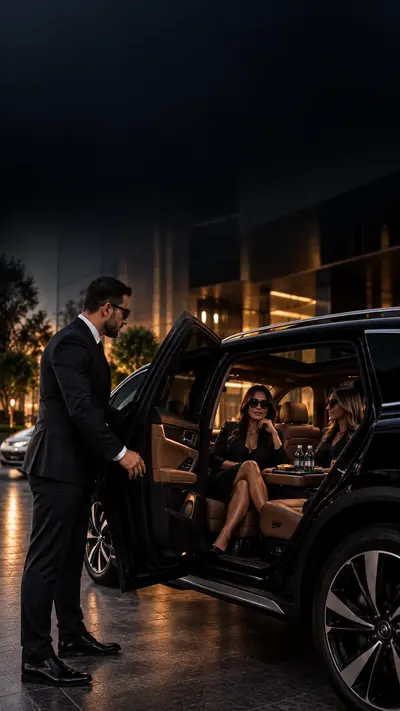
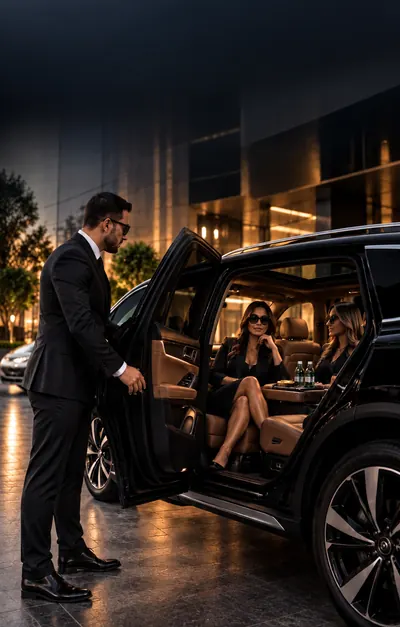
feat: CTA "Reserve Agora!" nos cards de serviço e fotos novas
Cards passam a 4:5 e cada foto ganha foco próprio para o botão não
cobrir pessoas; o topo da foto esmaece sob o véu para esconder a
emenda do deslocamento. Troca das fotos de Receptivo, City Tour,
Segurança Armada e Experiência Personalizada.

diff --git a/src/app/components/services.ts b/src/app/components/services.ts
@@ -1,5 +1,11 @@
 import { ChangeDetectionStrategy, Component } from '@angular/core';
-import { SERVICOS, SERVICOS_INTRO, SIZES_CARD, srcsetCard } from '../content/site-content';
+import {
+  RESERVA,
+  SERVICOS,
+  SERVICOS_INTRO,
+  SIZES_CARD,
+  srcsetCard,
+} from '../content/site-content';
 import { RevealOnScroll } from '../directives/reveal-on-scroll';
 import { Icon, IconName } from './icon';
 
@@ -37,6 +43,16 @@ import { Icon, IconName } from './icon';
                 <app-icon class="card__icone" [name]="icone(servico.icone)" [size]="32" />
                 <h3 class="card__titulo">{{ servico.titulo }}</h3>
                 <p class="card__descricao">{{ servico.descricao }}</p>
+                <a
+                  class="btn btn--primary card__cta"
+                  [href]="reservaUrl"
+                  target="_blank"
+                  rel="noopener"
+                  [attr.aria-label]="reservaRotulo + ' — ' + servico.titulo"
+                >
+                  {{ reservaRotulo }}
+                  <app-icon class="card__cta-seta" name="chevron-right" [size]="18" />
+                </a>
               </div>
             </article>
           }
@@ -67,7 +83,7 @@ import { Icon, IconName } from './icon';
       display: flex;
       flex-direction: column;
       justify-content: flex-start;
-      min-block-size: 24rem;
+      aspect-ratio: 4 / 5;
       overflow: hidden;
       border: 1px solid var(--color-border);
       border-radius: var(--radius-md);
@@ -82,6 +98,8 @@ import { Icon, IconName } from './icon';
       object-fit: cover;
       z-index: 0;
       filter: brightness(0.92);
+      /* Foto deslocada para baixo via foco não deixa emenda visível no topo */
+      mask-image: linear-gradient(to bottom, transparent, #000 9rem);
       transition: transform var(--duration-base) var(--ease-out);
     }
 
@@ -150,8 +168,26 @@ import { Icon, IconName } from './icon';
       max-width: 32ch;
     }
 
+    .card__cta {
+      min-height: 44px;
+      margin-block-start: var(--space-2);
+      padding: 0.5rem 1rem 0.5rem 1.25rem;
+      gap: 0.375rem;
+      border-radius: var(--radius-pill);
+      font-size: var(--text-small);
+    }
+
+    .card__cta-seta {
+      transition: transform var(--duration-fast) var(--ease-out);
+    }
+
+    .card__cta:hover .card__cta-seta {
+      transform: translateX(3px);
+    }
+
     @media (prefers-reduced-motion: reduce) {
-      .card:hover .card__foto {
+      .card:hover .card__foto,
+      .card__cta:hover .card__cta-seta {
         transform: none;
       }
     }
@@ -161,15 +197,23 @@ import { Icon, IconName } from './icon';
         grid-template-columns: repeat(2, 1fr);
       }
 
-      /* Card órfão na última linha ocupa a largura toda */
+      /* Card órfão na última linha fica centralizado, na largura de uma coluna */
       .card:last-child:nth-child(odd) {
         grid-column: 1 / -1;
+        justify-self: center;
+        inline-size: calc((100% - var(--space-3)) / 2);
       }
     }
 
     @media (max-width: 47.99em) {
       .cards {
         grid-template-columns: 1fr;
+        max-inline-size: 28rem;
+        margin-inline: auto;
+      }
+
+      .card:last-child:nth-child(odd) {
+        inline-size: auto;
       }
     }
   `,
@@ -181,6 +225,8 @@ export class Services {
   }));
   protected readonly intro = SERVICOS_INTRO;
   protected readonly sizes = SIZES_CARD;
+  protected readonly reservaUrl = RESERVA.plataformaUrl;
+  protected readonly reservaRotulo = RESERVA.cta.rotulo;
 
   protected icone(nome: string): IconName {
     return nome as IconName;

diff --git a/src/app/content/site-content.ts b/src/app/content/site-content.ts
@@ -100,13 +100,14 @@ export const SERVICOS: Servico[] = [
       'Aeroportos, hotéis, empresas, noiva e casamentos, eventos, e viagens corporativas ou particulares.',
     icone: 'briefcase',
     imagem: '/images/servicos/transfer-executivo.webp',
-    foco: 'center top',
+    foco: 'center 5.5rem',
   },
   {
     titulo: 'Receptivo Aeroporto',
     descricao: 'Recepção personalizada nos aeroportos de São Paulo, com conforto e pontualidade.',
     icone: 'plane',
     imagem: '/images/servicos/receptivo-aeroporto.webp',
+    foco: 'center 6rem',
   },
   {
     titulo: 'Viagens',
@@ -119,18 +120,21 @@ export const SERVICOS: Servico[] = [
     descricao: 'Motorista Executivo à sua disposição para múltiplos compromissos ao longo do dia.',
     icone: 'clock',
     imagem: '/images/servicos/operacao-disposicao.webp',
+    foco: 'center 2rem',
   },
   {
     titulo: 'City Tour',
     descricao: 'Passeios turísticos em São Paulo e diversos destinos, com conforto e segurança.',
     icone: 'pin',
     imagem: '/images/servicos/city-tour.webp',
+    foco: 'center 1.5rem',
   },
   {
     titulo: 'Motoristas Bilíngues',
     descricao: 'Atendimento em seu idioma para uma experiência mais confortável e tranquila.',
     icone: 'globe',
     imagem: '/images/servicos/motoristas-bilingues.webp',
+    foco: 'center top',
   },
   {
     titulo: 'Veículos Blindados',
@@ -143,12 +147,14 @@ export const SERVICOS: Servico[] = [
     descricao: 'Escolta especializada com profissionais treinados e qualificados.',
     icone: 'shield',
     imagem: '/images/servicos/seguranca-armada.webp',
+    foco: 'center top',
   },
   {
     titulo: 'Experiência Personalizada',
     descricao: 'Transporte Executivo adaptado às suas necessidades e preferências.',
     icone: 'star',
     imagem: '/images/servicos/experiencia-personalizada.webp',
+    foco: 'center 7rem',
   },
 ];
 

diff --git a/src/app/components/icon.ts b/src/app/components/icon.ts
@@ -19,7 +19,8 @@ export type IconName =
   | 'van'
   | 'bus'
   | 'menu'
-  | 'close';
+  | 'close'
+  | 'chevron-right';
 
 @Component({
   selector: 'app-icon',
@@ -109,6 +110,9 @@ export type IconName =
         @case ('close') {
           <path d="M6 6l12 12" />
           <path d="M18 6 6 18" />
+        }
+        @case ('chevron-right') {
+          <path d="m9 6 6 6-6 6" />
         }
         @case ('globe') {
           <circle cx="12" cy="12" r="9" />
